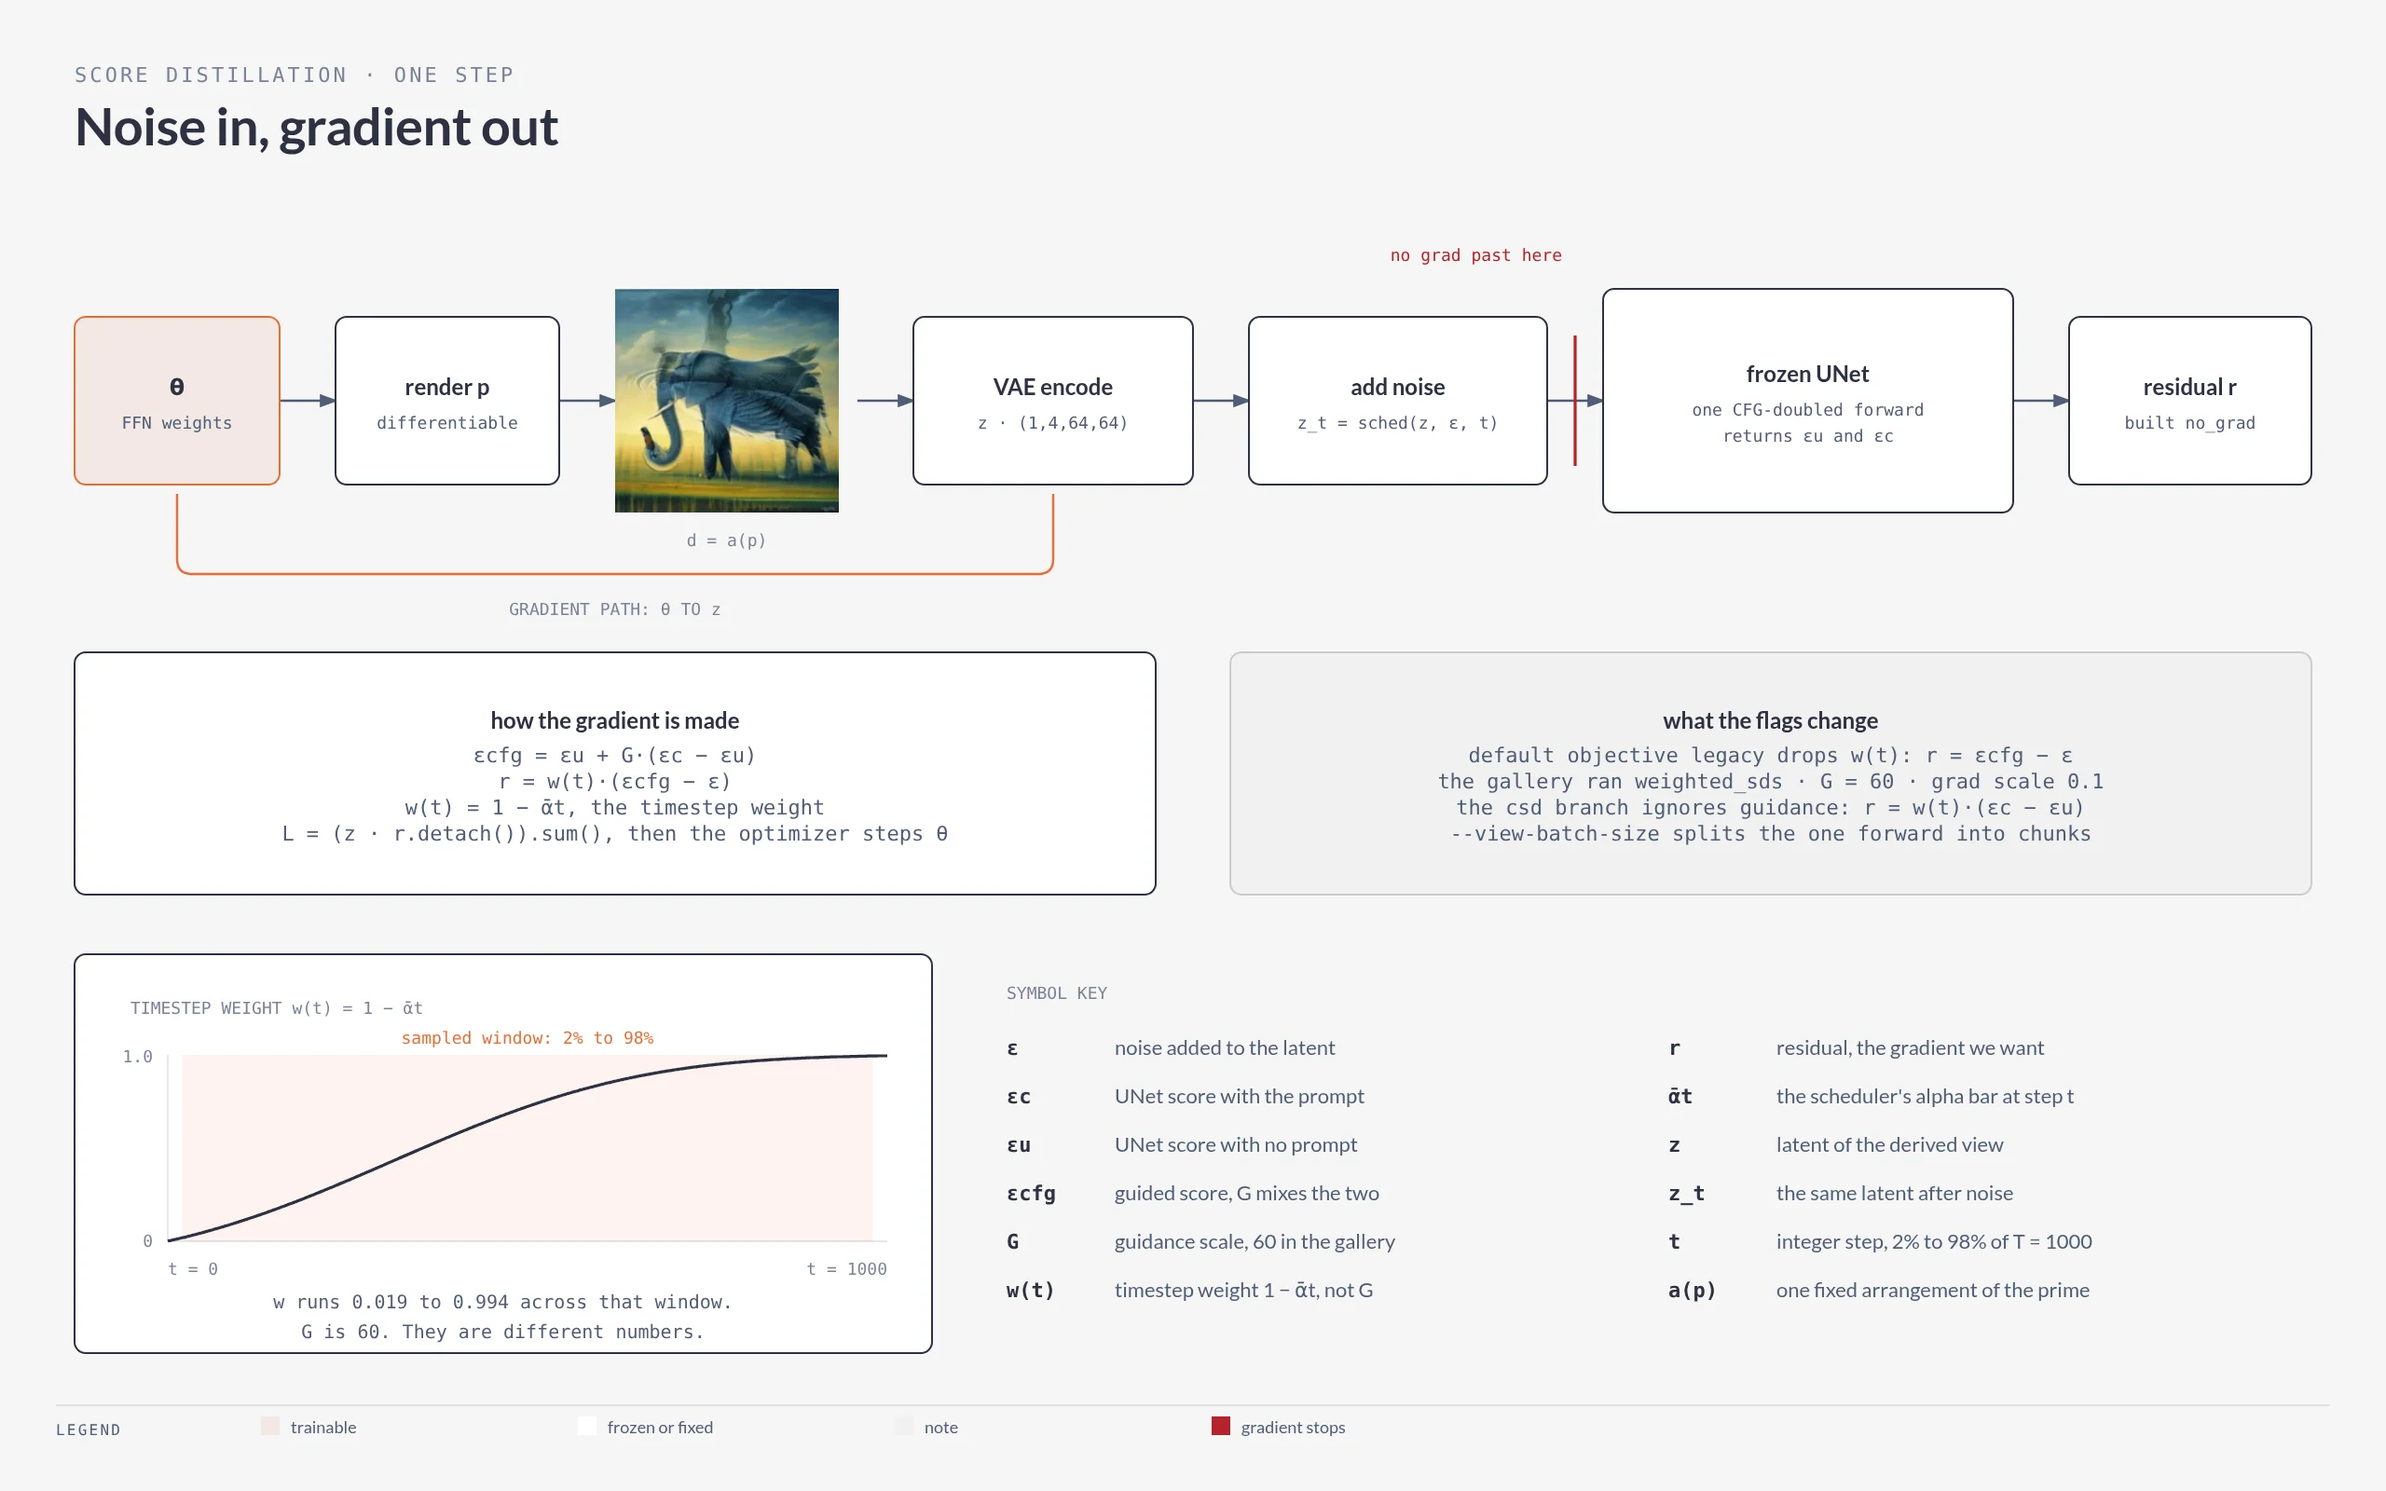
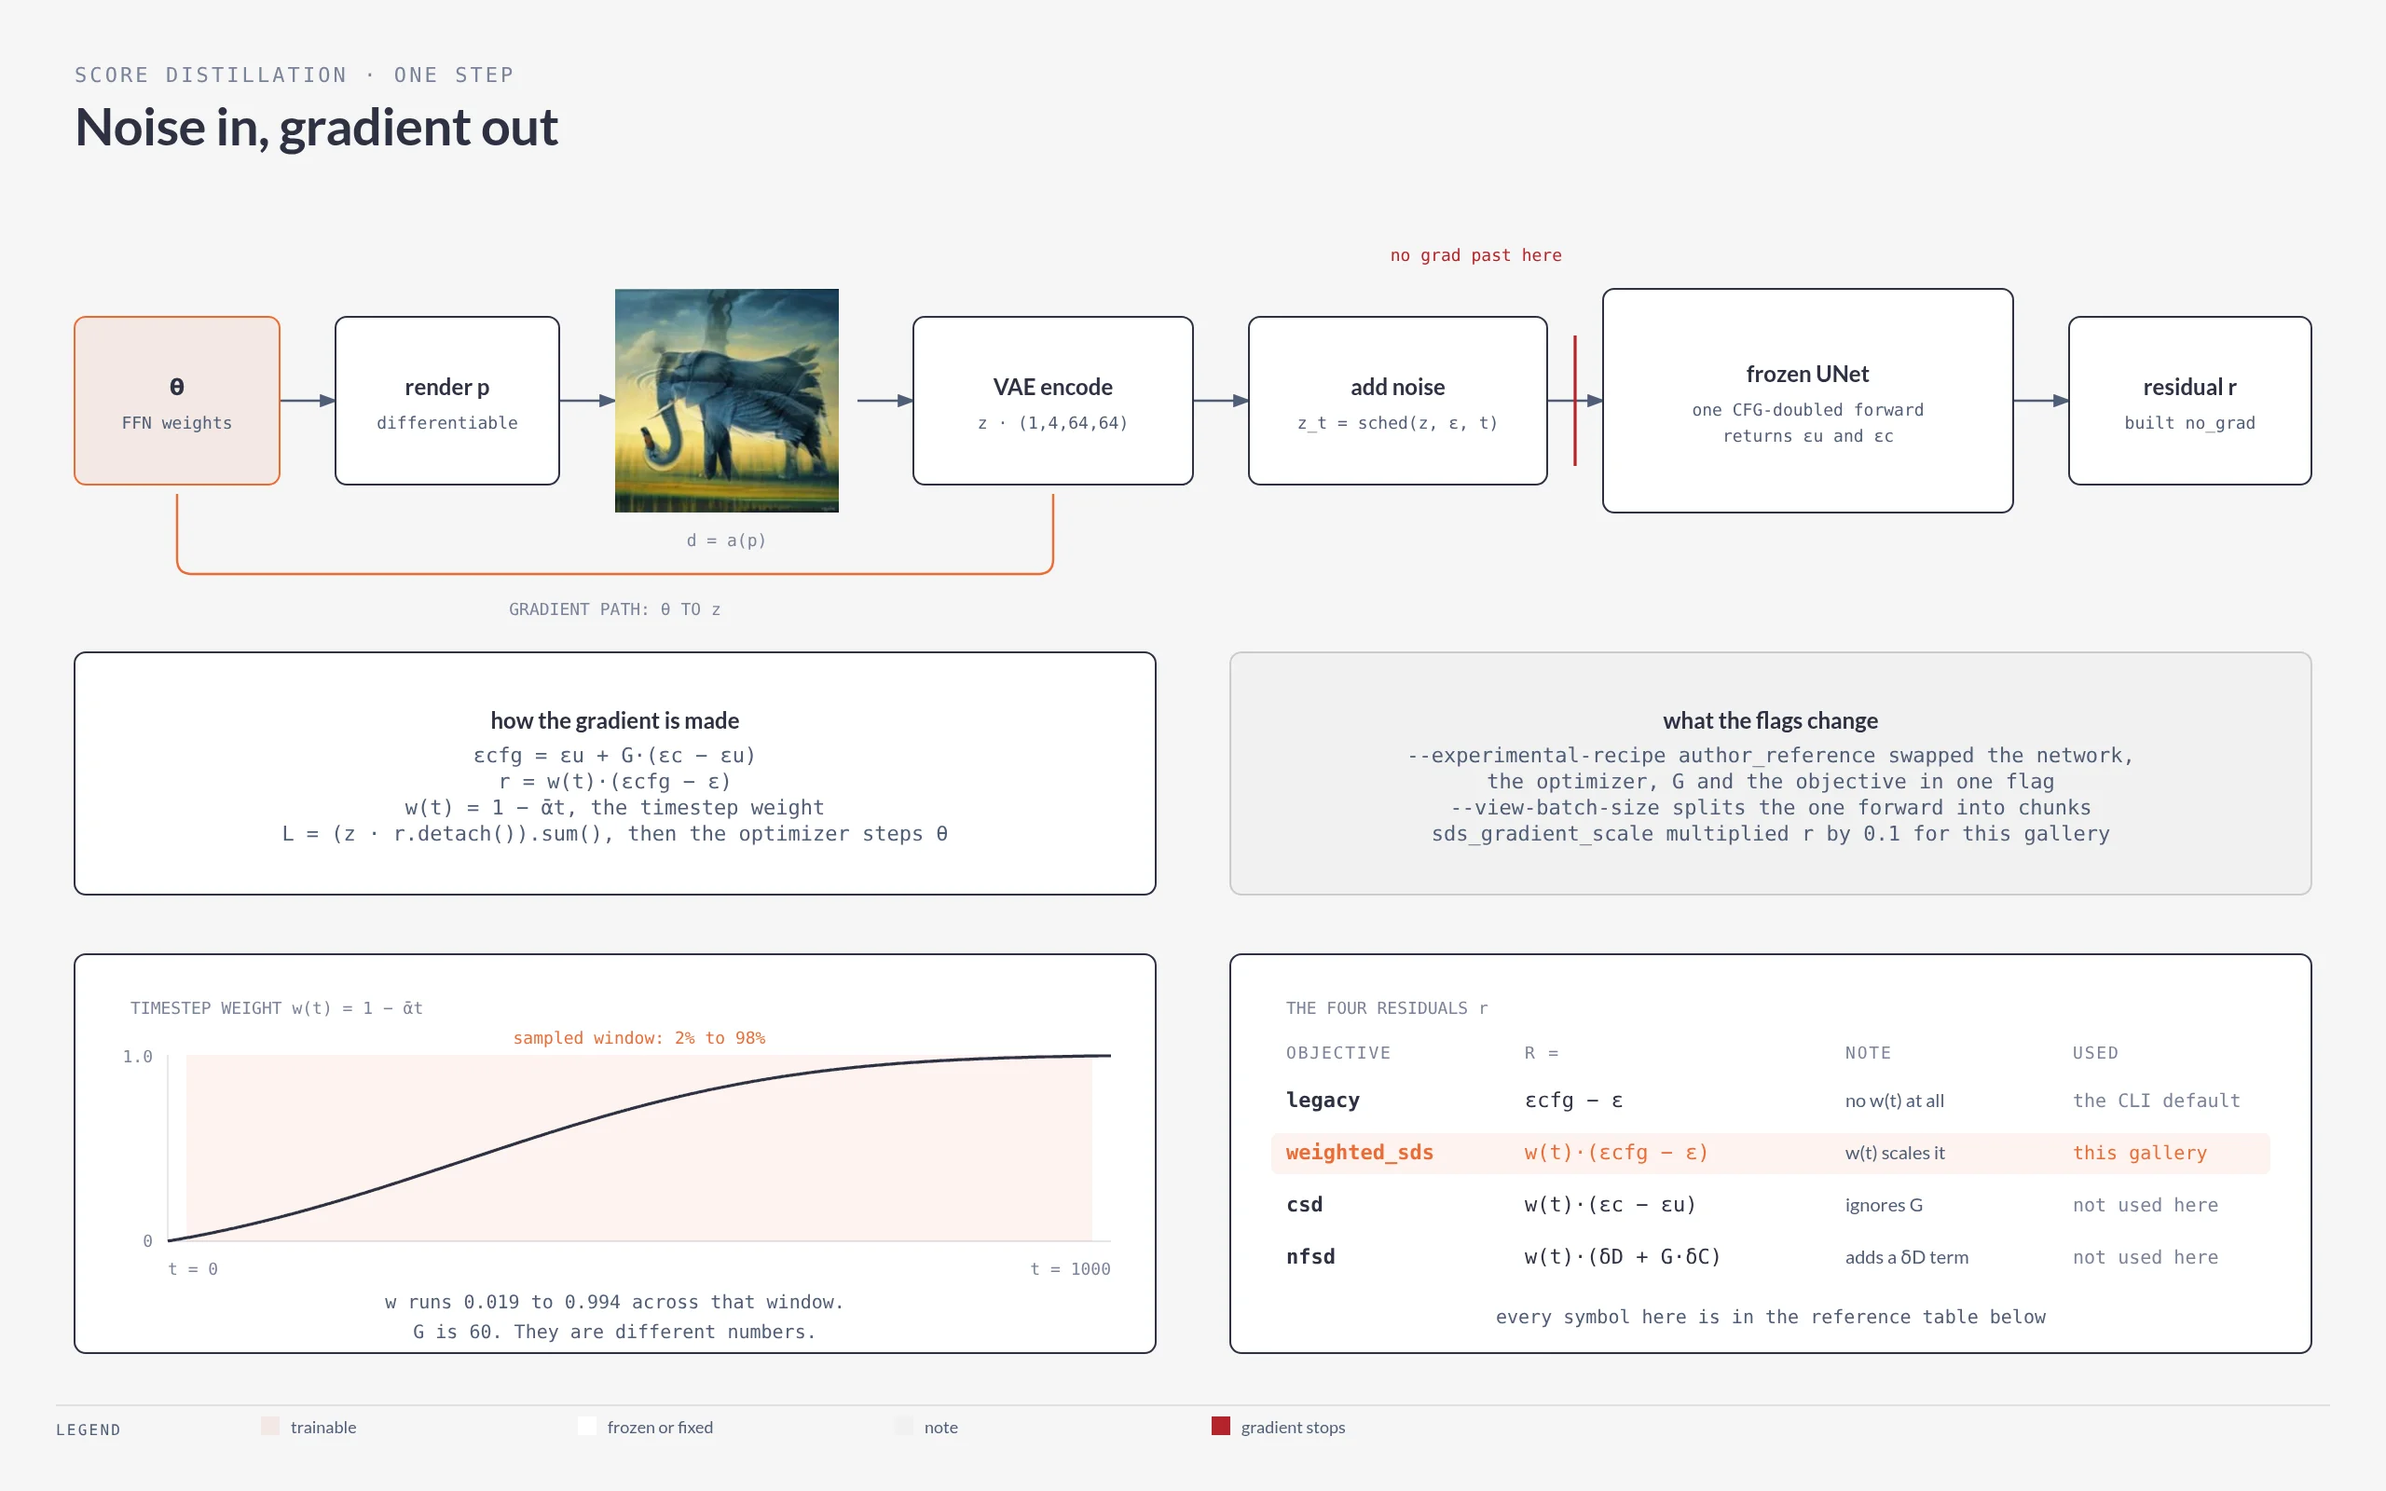
feat: expand the symbol key into a reference table with the functions
The key inside the SDS figure was twelve fragments, and it only covered
one figure. It is now its own figure: every symbol the page uses, in
three groups, with four columns. What it is, in a sentence. The range,
shape or value it carries, with the default and this gallery's value
where they differ. And the function in worker/worker/illusions.py that
computes it, so a reader can go straight to the code.

Twenty five symbols, from p and theta through the four residual
objectives to the joint consensus c.

The space the key freed inside the SDS figure now holds the four
residuals compute_sds_gradient can build, side by side: legacy,
weighted_sds, csd and nfsd, with the row this gallery ran highlighted.
That comparison was three lines of prose before.

diff --git a/frontend/src/routes/illusions/+page.svelte b/frontend/src/routes/illusions/+page.svelte
@@ -63,6 +63,12 @@
 					cap: 'ill.fig_sds_cap',
 					width: 2560,
 					height: 1600
+				},
+				{
+					src: '/illusions/symbols.webp',
+					cap: 'ill.fig_symbols_cap',
+					width: 2560,
+					height: 1680
 				}
 			]
 		},

diff --git a/frontend/src/lib/illusion-public-facts.test.ts b/frontend/src/lib/illusion-public-facts.test.ts
@@ -103,6 +103,7 @@ test('study diagrams are exported as webp', () => {
 		'workflow',
 		'ffn',
 		'sds',
+		'symbols',
 		'two-phase',
 		'dream',
 		'joint',

diff --git a/scripts/render-illusion-figures.py b/scripts/render-illusion-figures.py
@@ -233,6 +233,43 @@ def weight_panel(x, y, pw, ph):
     return "\n".join(s)
 
 
+SDS_OBJECTIVES = [
+    ("legacy", "εcfg − ε", "no w(t) at all", "the CLI default"),
+    ("weighted_sds", "w(t)·(εcfg − ε)", "w(t) scales it", "this gallery"),
+    ("csd", "w(t)·(εc − εu)", "ignores G", "not used here"),
+    ("nfsd", "w(t)·(δD + G·δC)", "adds a δD term", "not used here"),
+]
+
+
+def objective_panel(x, y, pw, ph):
+    """The four residuals compute_sds_gradient can build, side by side."""
+    s = [box(x, y, pw, ph, "", None, fill="#ffffff"),
+         note(x + 30, y + 32, "THE FOUR RESIDUALS r", 9, anchor="start", fill=SOFT)]
+    cols = [(x + 30, "objective"), (x + 158, "r ="), (x + 330, "note"), (x + 452, "used")]
+    for cx, label in cols:
+        s.append(f'<text x="{cx}" y="{y + 56}" fill="{SOFT}" font-size="9" '
+                 f'font-family="{MONO}" letter-spacing="0.1em">{label.upper()}</text>')
+    ry = y + 82
+    for name, expr, why, used in SDS_OBJECTIVES:
+        live = used == "this gallery"
+        if live:
+            s.append(f'<rect x="{x + 22}" y="{ry - 14}" width="{pw - 44}" height="22" rx="4" '
+                     f'fill="{ACCENT_TINT}"/>')
+        ink = ACCENT if live else INK
+        s.append(f'<text x="{x + 30}" y="{ry}" fill="{ink}" font-size="11" font-weight="600" '
+                 f'font-family="{MONO}">{name}</text>')
+        s.append(f'<text x="{x + 158}" y="{ry}" fill="{ink}" font-size="11" '
+                 f'font-family="{MONO}">{expr}</text>')
+        s.append(f'<text x="{x + 330}" y="{ry}" fill="{MUTED}" font-size="10" '
+                 f'font-family="{SANS}">{why}</text>')
+        s.append(f'<text x="{x + 452}" y="{ry}" fill="{ACCENT if live else SOFT}" font-size="10" '
+                 f'font-family="{MONO}">{used}</text>')
+        ry += 28
+    s.append(note(x + pw / 2, y + ph - 16,
+                  "every symbol here is in the reference table below", 10))
+    return "\n".join(s)
+
+
 # --------------------------------------------------------------- figures
 
 def fig_architecture(out):
@@ -359,35 +396,13 @@ def fig_sds(out):
                  "L = (z · r.detach()).sum(), then the optimizer steps θ",
                  sub_size=11))
     s.append(box(660, 350, 580, 130, "what the flags change",
-                 "default objective legacy drops w(t): r = εcfg − ε\n"
-                 "the gallery ran weighted_sds · G = 60 · grad scale 0.1\n"
-                 "the csd branch ignores guidance: r = w(t)·(εc − εu)\n"
-                 "--view-batch-size splits the one forward into chunks",
+                 "--experimental-recipe author_reference swapped the network,\n"
+                 "the optimizer, G and the objective in one flag\n"
+                 "--view-batch-size splits the one forward into chunks\n"
+                 "sds_gradient_scale multiplied r by 0.1 for this gallery",
                  fill=NOTE_FILL, stroke=NOTE_STROKE, sub_size=11))
-    keys = [
-        ("ε", "noise added to the latent"),
-        ("εc", "UNet score with the prompt"),
-        ("εu", "UNet score with no prompt"),
-        ("εcfg", "guided score, G mixes the two"),
-        ("G", "guidance scale, 60 in the gallery"),
-        ("w(t)", "timestep weight 1 − ᾱt, not G"),
-        ("r", "residual, the gradient we want"),
-        ("ᾱt", "the scheduler's alpha bar at step t"),
-        ("z", "latent of the derived view"),
-        ("z_t", "the same latent after noise"),
-        ("t", "integer step, 2% to 98% of T = 1000"),
-        ("a(p)", "one fixed arrangement of the prime"),
-    ]
-    s.append(note(540, 536, "SYMBOL KEY", 9, anchor="start", fill=SOFT))
-    for i, (sym, meaning) in enumerate(keys):
-        col, row = divmod(i, 6)
-        x = 540 + col * 355
-        y = 566 + row * 26
-        s.append(f'<text x="{x}" y="{y}" fill="{INK}" font-size="11" font-family="{MONO}" '
-                 f'font-weight="600">{sym}</text>')
-        s.append(f'<text x="{x + 58}" y="{y}" fill="{MUTED}" font-size="11" '
-                 f'font-family="{SANS}">{meaning}</text>')
-    s.append(weight_panel(40, 512, 460, 214))
+    s.append(objective_panel(660, 512, 580, 214))
+    s.append(weight_panel(40, 512, 580, 214))
     s.append(legend([(ACCENT_TINT, "trainable"), ("#ffffff", "frozen or fixed"),
                      (NOTE_FILL, "note"), (CUT, "gradient stops")], w, 762))
     s.append("</svg>")
@@ -808,10 +823,111 @@ def fig_failures(out):
     write(out, "failures", "\n".join(s), w, h)
 
 
+SYMBOL_GROUPS = [
+    ("the prime and its views", [
+        ("p", "the printable prime: the one sheet you actually print",
+         "RGB in [0,1] · (1,3,512,512), 256 px here", "FourierFeatureNetwork.image"),
+        ("θ", "the prime network's weights, the only tensor that trains",
+         "263,683 by default · 199,683 here", "optimize_illusion"),
+        ("x, y", "the pixel coordinates the network reads, one pair per pixel",
+         "512x512 in [-1,1] · 256x256 in [0,1) here", "FourierFeatureNetwork.image"),
+        ("B", "fixed random projection. It decides which frequencies exist",
+         "2 x 256, scale 10 · 2 x 128 here · never trained", "register_buffer(frequencies)"),
+        ("v", "Fourier features: the coordinates wrapped into waves",
+         "512-d by default · 256-d here", "v = [sin(2πBx) ‖ cos(2πBx)]"),
+        ("σ", "sigmoid. It squashes the network output into printable RGB",
+         "output in [0,1]", "torch.sigmoid(mlp(v))"),
+        ("a₁, a₂", "the two arrangements: leave the sheet, and turn it 180 degrees",
+         "fixed, differentiable, physically real", "ILLUSIONS[flip], _flip"),
+        ("d₁, d₂", "the derived views: what a person sees before and after the turn",
+         "d₁ = a₁(p) = p · d₂ = rot₁₈₀(p)", "_flip"),
+    ]),
+    ("one Score Distillation step", [
+        ("z", "the derived view encoded into the diffusion latent space",
+         "(1,4,64,64)", "DiffusionAdapter.encode_latent"),
+        ("t", "the timestep drawn fresh each step, shared by both views",
+         "integer, 2% to 98% of T = 1000", "randint(0.02T, 0.98T)"),
+        ("ε", "the noise actually added to the latent this step",
+         "same shape as z, standard normal", "add_training_noise"),
+        ("z_t", "the latent after that noise: the only thing the UNet is shown",
+         "(1,4,64,64)", "z_t = sched(z, ε, t)"),
+        ("εc, εu", "what the frozen UNet predicts with the prompt, and without it",
+         "one CFG-doubled forward returns both", "sds_loss_batch"),
+        ("G", "guidance scale: how hard the prompt pulls the prediction",
+         "100 by default · 60 here", "--sds-guidance"),
+        ("εcfg", "the guided prediction the two are mixed into",
+         "εu + G·(εc − εu)", "compute_sds_gradient"),
+        ("ᾱt", "the scheduler's cumulative alpha at step t",
+         "0.9991 at t = 0 down to 0.0047 at t = 999", "alphas_cumprod[t]"),
+        ("w(t)", "the timestep weight. It is not the guidance scale",
+         "1 − ᾱt, so 0.0009 to 0.9953", "sds_timestep_weight"),
+        ("r", "the residual, used directly as the gradient on the latent",
+         "detached · scaled by 0.1 here", "compute_sds_gradient"),
+        ("L", "the surrogate loss whose gradient is exactly r",
+         "(z · r.detach()).sum()", "_sds_loss_from_latent"),
+        ("η", "the step the optimizer takes on θ, and on nothing else",
+         "Adam 1e-3 by default · SGD 1e-4 here", "resolve_learning_rates"),
+    ]),
+    ("Dream Target and joint Dream", [
+        ("s", "SDEdit strength: how far the target may drift from the view",
+         "0.95 to 0.05 over 8 rounds · [0.95] here", "strength_schedule"),
+        ("z (Dream)", "the dreamed target, frozen for the whole round",
+         "an image, not a latent", "DiffusionAdapter.sdedit"),
+        ("L (Dream)", "the round loss that pulls each view onto its target",
+         "(1 − SSIM) + MSE, 300 steps", "image_similarity_loss"),
+        ("xA, xB", "the decoded x₀ predictions during one joint denoise step",
+         "pixel space, not latent", "DiffusionAdapter.sdedit_joint"),
+        ("c", "the consensus image that both Dream targets are made from",
+         "(xA + rot₁₈₀(xB)) / 2", "reconcile_flip"),
+    ]),
+]
+
+
+def fig_symbols(out):
+    """Every symbol the other figures use, with its value and its source."""
+    w, h = 1280, 840
+    s = [svg_open("symbols", "Every symbol on this page",
+                  "A reference table: what each symbol means, the value or shape it "
+                  "carries, and the function that computes it.", w, h)]
+    s.append(eyebrow(40, 44, "REFERENCE · READ THE OTHER FIGURES WITH THIS"))
+    s.append(heading(40, 78, "What each symbol means"))
+    heads = [(44, "SYMBOL"), (168, "WHAT IT IS"), (658, "RANGE, SHAPE OR VALUE"),
+             (962, "WHERE IT IS COMPUTED")]
+    for x, label in heads:
+        s.append(f'<text x="{x}" y="112" fill="{SOFT}" font-size="9" font-family="{MONO}" '
+                 f'letter-spacing="0.12em">{label}</text>')
+    s.append(f'<line x1="40" y1="120" x2="1240" y2="120" stroke="{RULE}" stroke-width="0.8"/>')
+    y = 142
+    for title, rows in SYMBOL_GROUPS:
+        s.append(f'<text x="44" y="{y}" fill="{ACCENT}" font-size="11" font-family="{MONO}" '
+                 f'letter-spacing="0.1em">{title.upper()}</text>')
+        y += 20
+        for i, (sym, meaning, value, source) in enumerate(rows):
+            if i % 2:
+                s.append(f'<rect x="40" y="{y - 15}" width="1200" height="22" '
+                         f'fill="rgba(45,49,66,0.02)"/>')
+            s.append(f'<text x="44" y="{y}" fill="{INK}" font-size="12" font-weight="600" '
+                     f'font-family="{MONO}">{sym}</text>')
+            s.append(f'<text x="168" y="{y}" fill="{MUTED}" font-size="11" '
+                     f'font-family="{SANS}">{meaning}</text>')
+            s.append(f'<text x="658" y="{y}" fill="{INK}" font-size="10" '
+                     f'font-family="{MONO}">{value}</text>')
+            s.append(f'<text x="962" y="{y}" fill="{SOFT}" font-size="10" '
+                     f'font-family="{MONO}">{source}</text>')
+            y += 22
+        y += 18
+    s.append(f'<line x1="40" y1="{y - 22}" x2="1240" y2="{y - 22}" stroke="{RULE}" stroke-width="0.8"/>')
+    s.append(note(44, y, "Function names are worker/worker/illusions.py on PR #118. "
+                         "\"here\" means the recipe that baked this gallery.", 10, anchor="start"))
+    s.append("</svg>")
+    write(out, "symbols", "\n".join(s), w, h)
+
+
 FIGURES = {
     "architecture": fig_architecture,
     "ffn": fig_ffn,
     "sds": fig_sds,
+    "symbols": fig_symbols,
     "two-phase": fig_two_phase,
     "dream": fig_dream,
     "joint": fig_joint,

diff --git a/docs/illusions-study.md b/docs/illusions-study.md
@@ -208,6 +208,9 @@ Burgert et al. sections and equations. Code references are
 | x̂ | Predicted clean image decoded during joint denoise | `sdedit_joint` |
 | c | Consensus: c = (x̂A + rot₁₈₀(x̂B)) / 2, averaged in pixel space | `reconcile_flip` |
 
+<!-- figure: symbols -->
+*Figure: the same table on the page, with each symbol's range or shape beside the function that computes it. The figures spell the decoded predictions xA and xB, because no font here renders a circumflex over a Greek or italic letter.*
+
 ## What we measured
 
 The reliability program on PR #118 recorded these results. PR #150
